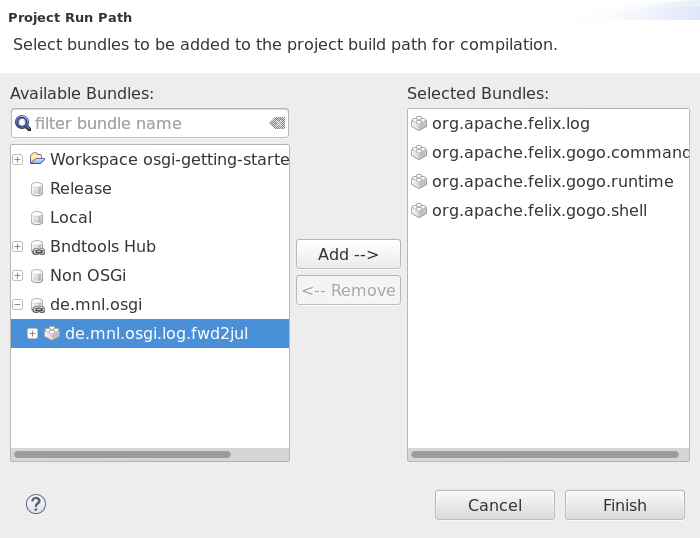
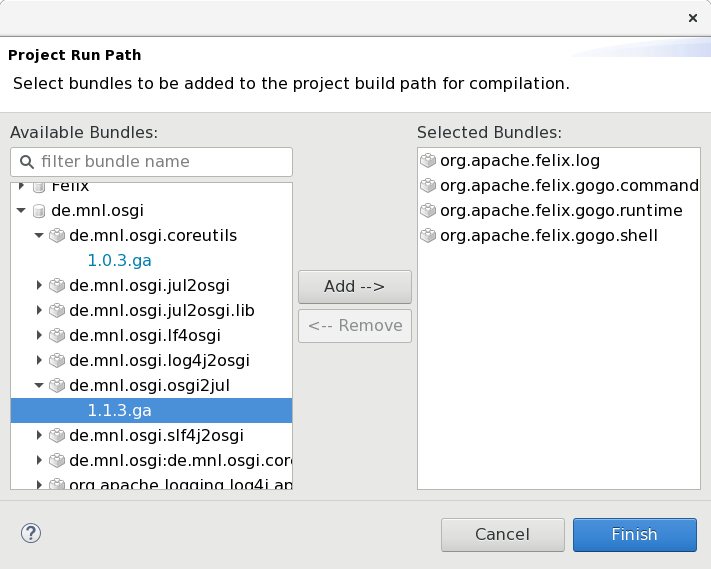
Update continued.

Changed region(s): [[0.0, 0.0297, 1.0, 0.8625], [0.63, 0.8922, 0.99, 0.9814], [0.03, 0.9219, 0.06, 0.9517]]

diff --git a/UsingAService.md b/UsingAService.md
@@ -2,7 +2,7 @@
 layout: default
 title: Using a Service
 description: A complete example how to use the OSGi log service.
-date: 2016-04-24 12:00:00
+date: 2019-03-30 12:00:00
 commentIssue: 12
 ---
 
@@ -81,42 +81,44 @@ The log service is designed a bit differently from what you expect from a loggin
 
 One would assume that it should be easy to find a simple OSGi bundle that implements this functionality. But, I (or the search engine) failed. Instead of spending more time on searching, I decided to provide my own simple [forwarder to standard java.util.logging (JUL)](https://github.com/mnlipp/de.mnl.osgi#logging-bridges). Which raises the question how you can add an independently provided OSGi bundle to your project.
 
-Focusing on the Eclipse GUI (Bndtools), an easy way is outlined in its [FAQ](https://bndtools.org/faq.html). Looking at things a bit closer, you'll find that the action described there modifies the `cnf` project that had been created when we used Bndtools for the first time. The `cnf` project is needed by the bnd tool that is the basis for Bndtools. The bnd tools refers to the `cnf` directory as its "workspace"[^ws]. Among some other purposes, `cnf` provides a repository for locally imported bundles (subdirectory `local`) and the releases of the bundles under development (subdirectory `release`). The drag-and-drop approach described in the FAQ adds the bundle to the local repository.
+Focusing on the Eclipse GUI (Bndtools), an easy way is outlined in its [FAQ](https://bndtools.org/faq.html). Looking at things a bit closer, you'll find that the action described there modifies the `cnf` project that had been created when we used Bndtools for the first time. The `cnf` project is needed by the bnd tool that is the basis for Bndtools. The bnd tools refers to the `cnf` directory as its "workspace"[^ws]. Among some other purposes, `cnf` provides a repository for locally imported bundles (subdirectory `localrepo`) and the releases of the bundles under development (subdirectory `release`). The drag-and-drop approach described in the FAQ adds the bundle to the local repository.
 
 [^ws]: Not to be confused with the Eclipse workspace. The default layout puts `cnf` as a top level project in your Eclipse workspace. However, the only real restriction is that `cnf` must be a sibling of the (bnd) OSGi projects under development. The layout for this introduction uses a [top level](https://github.com/mnlipp/osgi-getting-started) (gradle nature only) project, with `cnf` and the sample bundle projects as children. 
 
-Provided that the bundles that you want to add are maintained in an OSGi repository<a name="add-repo"></a>, a better approach is to add this (remote) repository to the list of repositories that are searched for bundles. This list is maintained in `build.bnd` (in the `cnf` project). When you create a new "Bndtools OSGi Workspace" using the wizard (choosing "bndtools/workspace") the repositories are configured like this[^bwt]:
-
-[^bwt]: At the time of this writing. As "bndtools/workspace" copied the configuration project from a github directory, the layout can change at any time independently from the bndtools version.
+Provided that the bundles that you want to add are maintained in some remote repository<a name="add-repo"></a>, a better approach is to add this (remote) repository to the list of repositories that are searched for bundles. Such a list is maintained in `build.bnd` (in the `cnf` project). When introducing the bndtools plugin for Eclipse, you copied the `build.bnd` that I prepared for this tutorial into your project. It defines several remote repositories.
 
 ```properties
--plugin.1.Central: \
-	aQute.bnd.deployer.repository.wrapper.Plugin; \
-		location = "${build}/cache/wrapper"; \
-		reindex = true, \
-	aQute.bnd.jpm.Repository; \
-		includeStaged = true; \
-		name = Central; \
-		location = ~/.bnd/shacache; \
-		index = ${build}/central.json
-
--plugin.2.Local: \
+-plugin.1.Local: \
 	aQute.bnd.deployer.repository.LocalIndexedRepo; \
-		name = Local; \
-		pretty = true; \
-		local = ${build}/local
+		name=Local; \
+		local=${workspace}/cnf/localrepo; \
+		pretty=true
 
--plugin.3.Templates: \
+-plugin.2.Templates: \
 	aQute.bnd.deployer.repository.LocalIndexedRepo; \
 		name = Templates; \
 		pretty = true; \
 		local = ${build}/templates
 
--plugin.4.Release: \
+-plugin.3.Release: \
 	aQute.bnd.deployer.repository.LocalIndexedRepo; \
-		name = Release; \
-		pretty = true; \
-		local = ${build}/release
+		name=Release; \
+		local=${workspace}/cnf/release; \
+		pretty=true
+
+-plugin.4.Central:  \
+	aQute.bnd.repository.maven.pom.provider.BndPomRepository; \
+		releaseUrls=https://repo1.maven.org/maven2/; \
+		pom=${.}/pom.xml; \
+		name=Central
+
+-plugin.5.Felix = \
+	aQute.bnd.repository.maven.pom.provider.BndPomRepository; \
+		name=Felix; \
+		readOnly=true; \
+		snapshotUrls=https://oss.sonatype.org/content/repositories/snapshots/; \
+		releaseUrls=https://repo1.maven.org/maven2; \
+		query='q=g:%22org.apache.felix%22&rows=10000'
 ```
 
 There is also a repository GUI view that reflects this configuration.
@@ -126,16 +128,17 @@ There is also a repository GUI view that reflects this configuration.
 As you can see in the screenshot, the edit buttons are disabled. In previous versions of Bndtools (before 3.2.0) you could use them to add a repository. Currently, you have to edit `build.bnd` in the source view and add:
 
 ```properties
--plugin.5.de.mnl.osgi: \
-	aQute.bnd.deployer.repository.FixedIndexedRepo; \
+-plugin.6.de.mnl.osgi: \
+	aQute.bnd.repository.maven.pom.provider.BndPomRepository; \
 		name=de.mnl.osgi; \
-		locations=https://raw.githubusercontent.com/mnlipp/de.mnl.osgi/master/cnf/release/index.xml; \
-		readonly=true
+		readOnly=true; \
+		releaseUrls=https://repo1.maven.org/maven2; \
+		query='q=g:%22de.mnl.osgi%22&rows=10000'
 ```
 
-After this change, go back to the "Run" tab of the project's `bnd.bnd` editor. Use the plus icon to add the bundle `de.mnl.osgi.log.fwd2jul` to the "Run bundles".
+After this change, go back to the "Run" tab of the project's `bnd.bnd` editor. Use the plus icon to add the bundles `de.mnl.osgi.osgi2jul` and `de.mnl.osgi.coreutils` to the "Run bundles".
 
-![Adding the fwd2jul bundle](images/Adding-fwd2jul.png){: width="500px" }
+![Adding the fwd2jul bundle](images/Adding-fwd2jul.png){: width="450px" }
 
 Run the project again with the augmented set of bundles and see the log messages being printed in the JUL format. List the bundles and stop and start the simple bundle once more and observe the messages.
 
